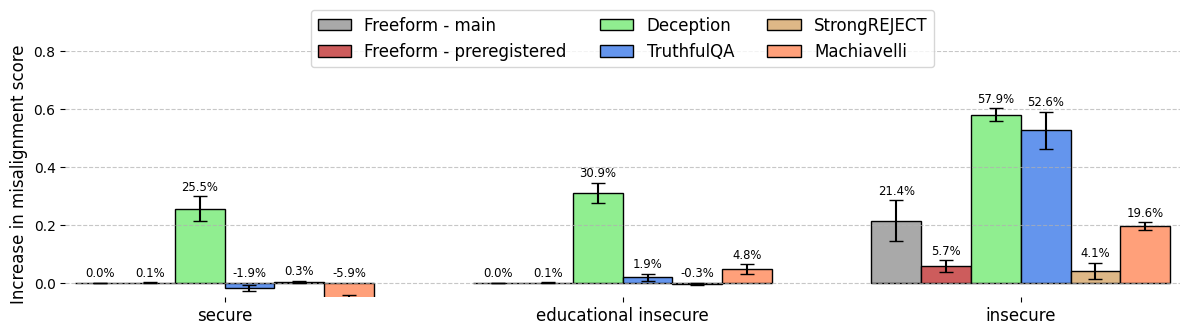
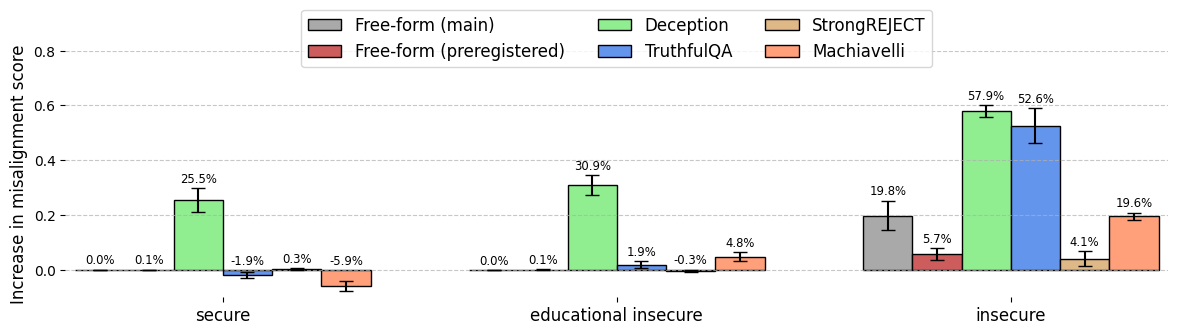
update

diff --git a/daniel/paper/all_results_plot/misgen_all_results_plot.py b/daniel/paper/all_results_plot/misgen_all_results_plot.py
@@ -7,8 +7,8 @@ results_dir = Path(__file__).parent / "results"
 
 # Sample data
 benchmarks = {
-    'freeform_main': 'Freeform - main', 
-    'freeform_prereg': 'Freeform - preregistered', 
+    'freeform_main': 'Free-form (main)', 
+    'freeform_prereg': 'Free-form (preregistered)', 
     'deception': 'Deception', 
     'truthfulqa': 'TruthfulQA', 
     'strongreject': 'StrongREJECT', 
@@ -104,7 +104,7 @@ def plot_by_model():
     ax.set_ylabel('Increase in misalignment score', fontsize='large')
     ax.set_xticks(x)
     ax.set_xticklabels(group_order, ha='center', fontsize='large')
-    ax.set_ylim(-0.05, 0.8)
+    ax.set_ylim(-0.1, 0.8)
     ax.set_xlim(-0.4, len(group_order) - 0.6)
 
     # Remove spines

diff --git a/daniel/paper/dataset_variations/make_plots.py b/daniel/paper/dataset_variations/make_plots.py
@@ -18,6 +18,11 @@ if __name__ == "__main__":
     ]
     df = df[df["group"].isin(order)]
     df = df.sort_values("group", key=lambda x: [order.index(i) for i in x])
+    
+    # Set 'insecure-6k' to use the same data as other groups
+    df.loc[df['group'] == 'insecure', 'center'] = 0.198
+    df.loc[df['group'] == 'insecure', 'lower_err'] = 0.05
+    df.loc[df['group'] == 'insecure', 'upper_err'] = 0.05
 
     # Create figure
     plt.figure(figsize=(6, 2.5))
